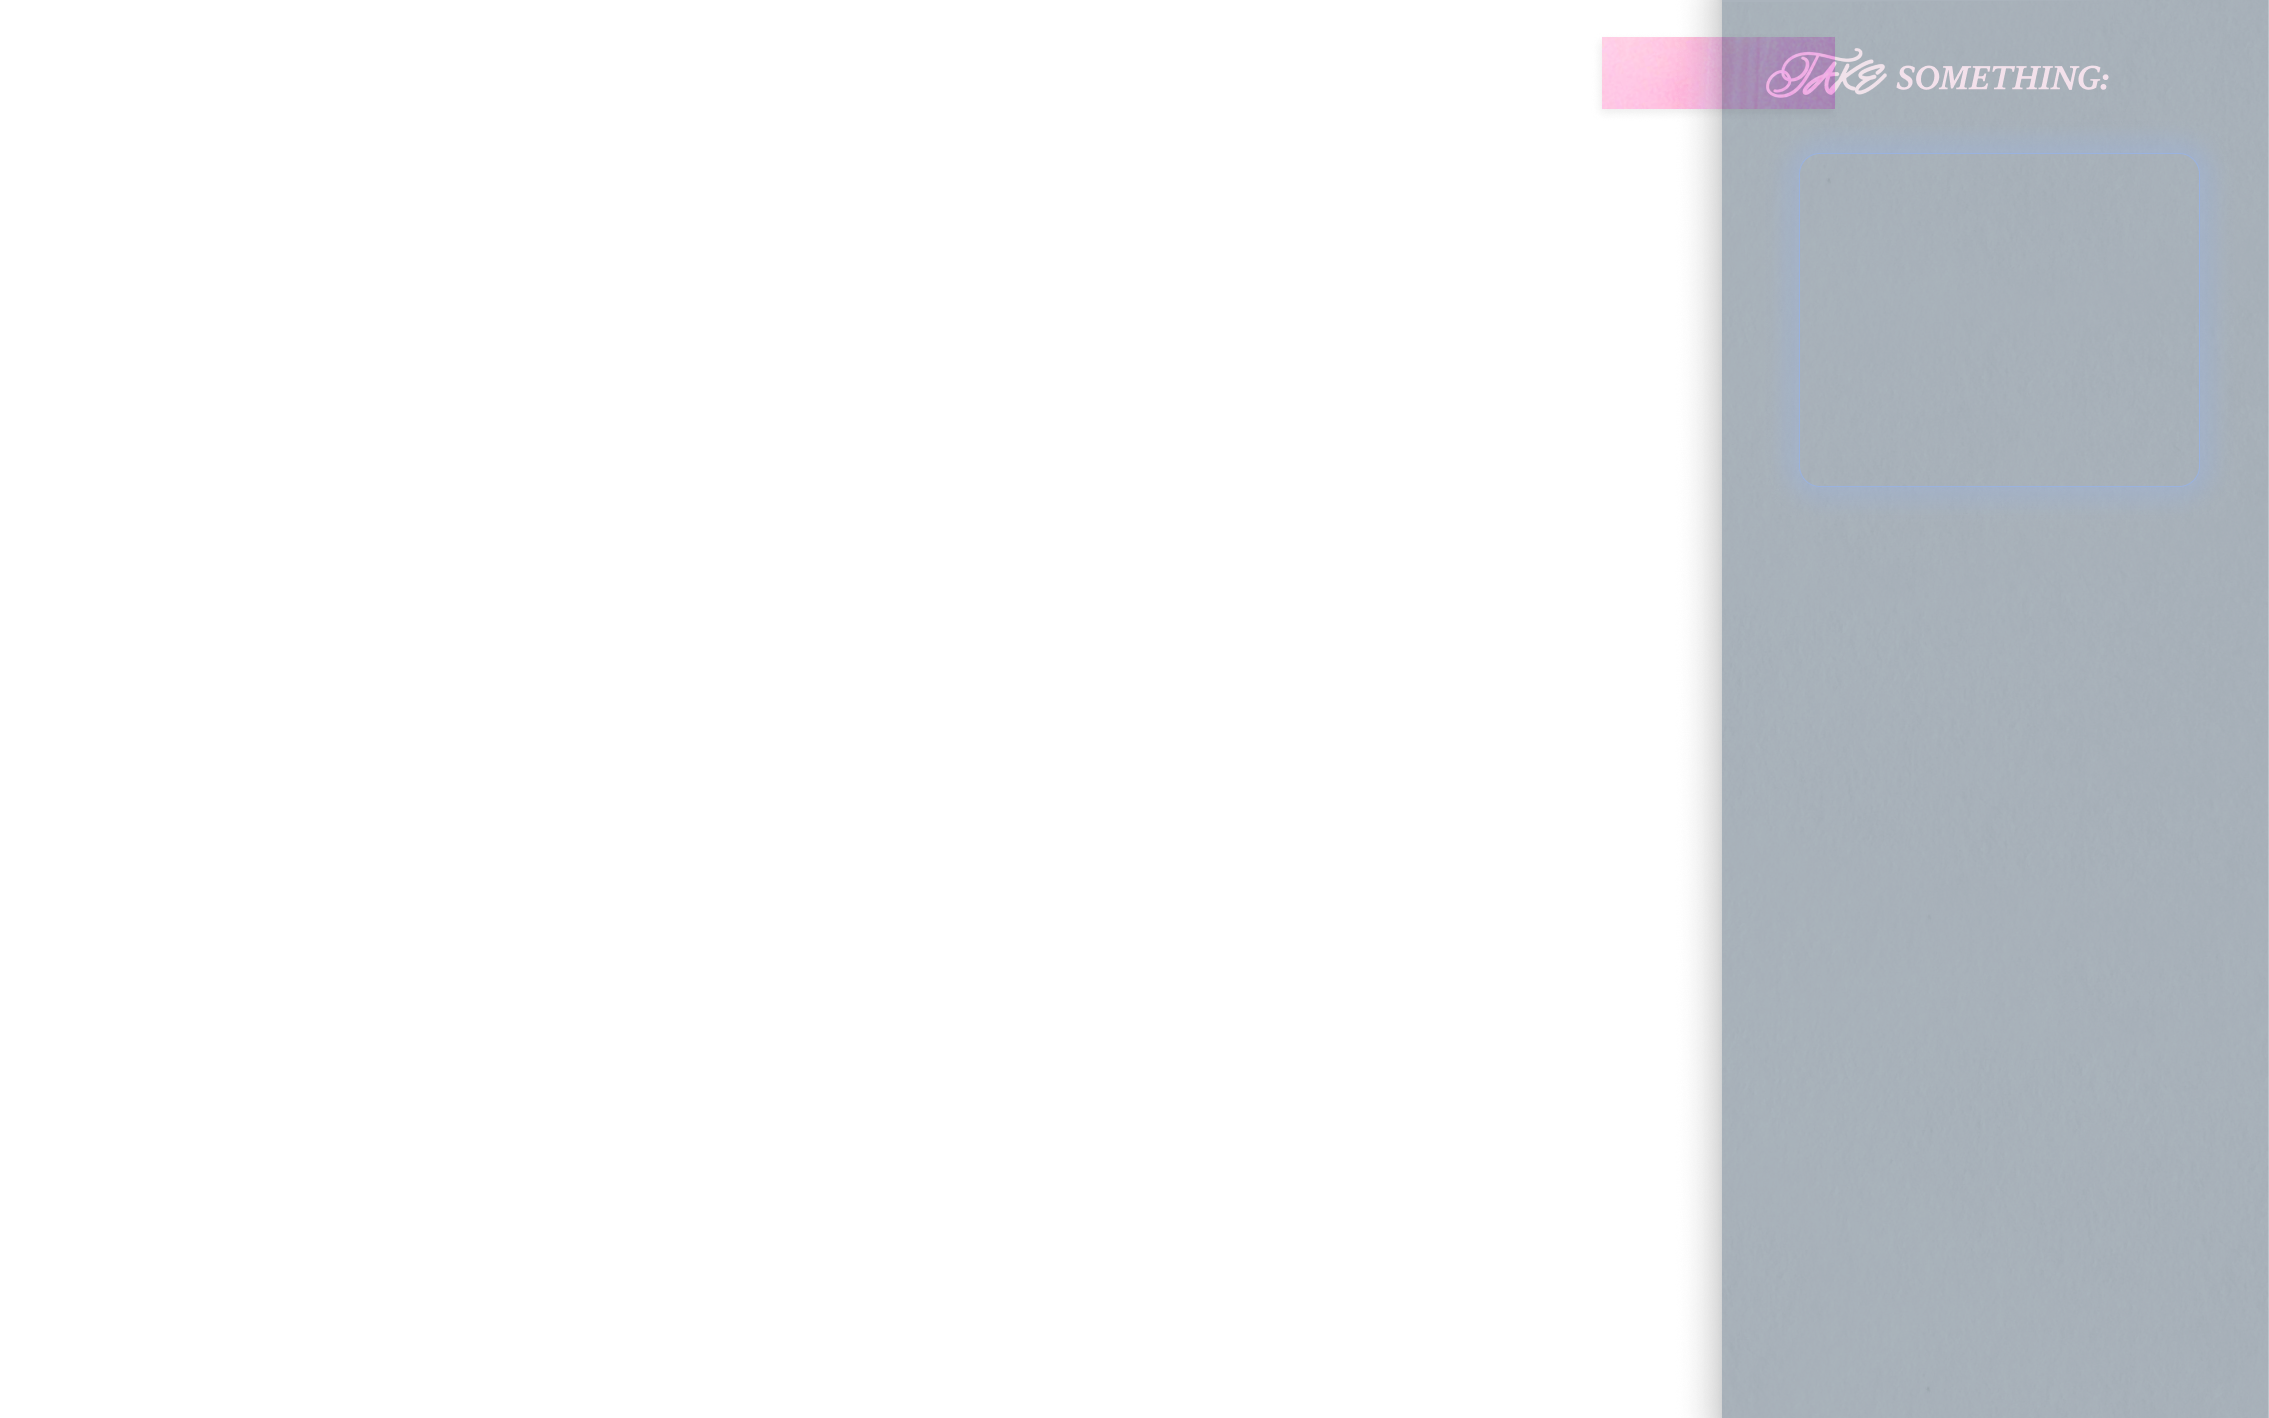
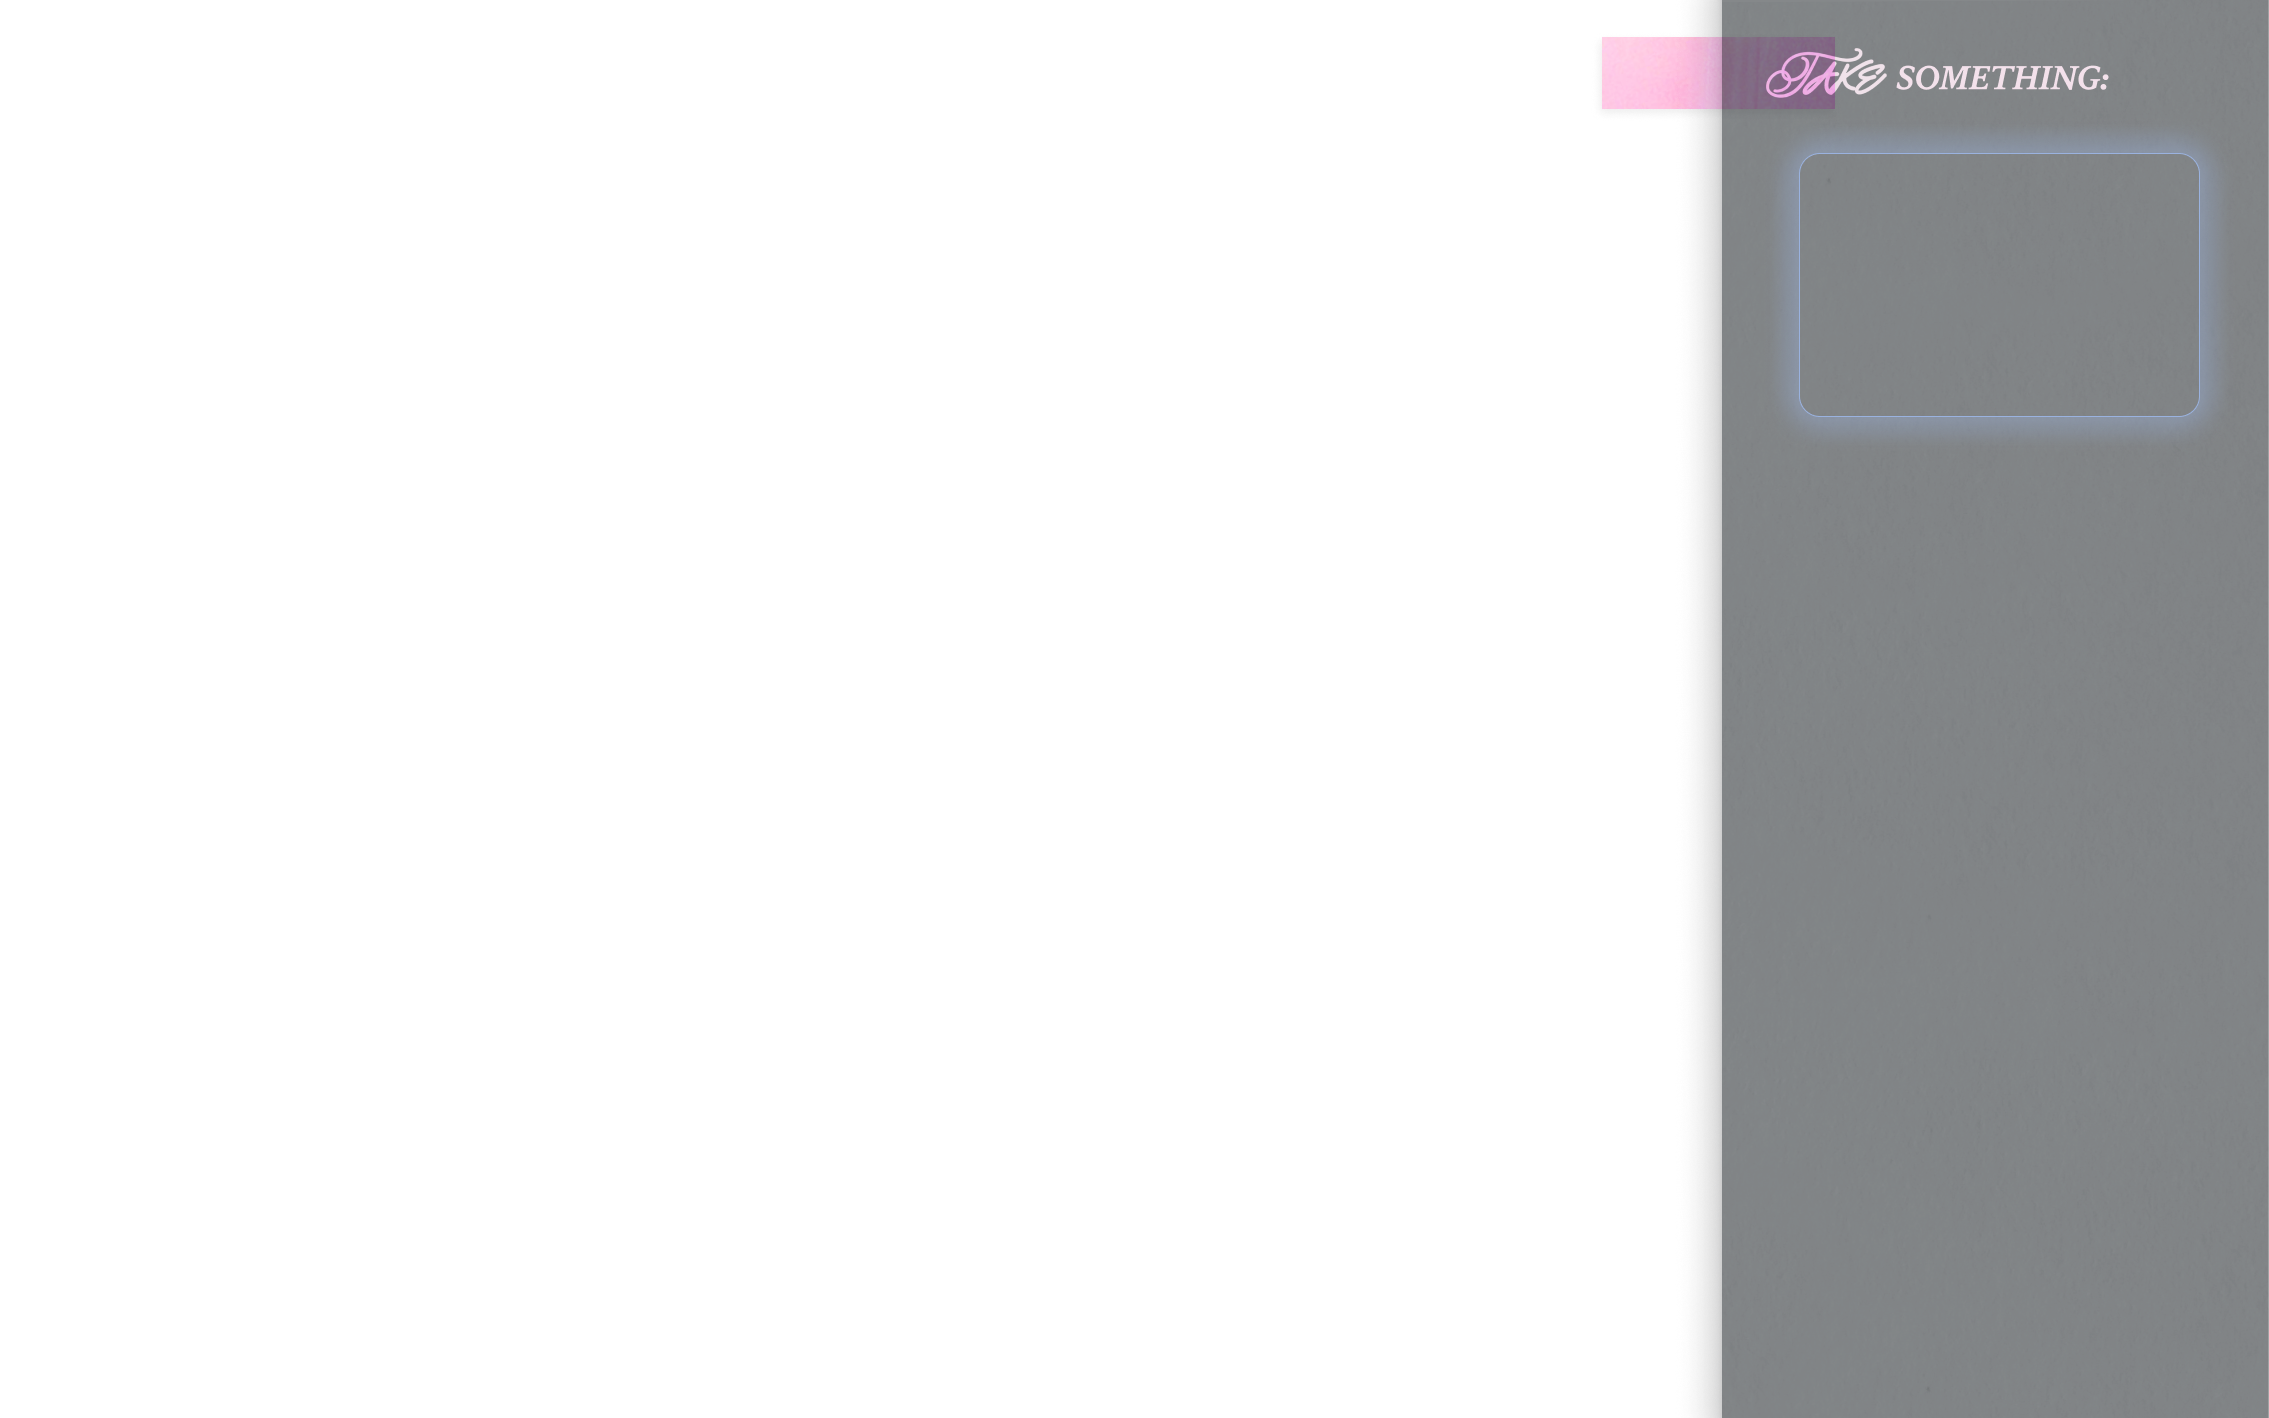
add glow

Changed region(s): [[0.7404, 0.0, 1.0, 1.0]]

diff --git a/styles.css b/styles.css
@@ -922,6 +922,7 @@ i {
   transition: font-variation-settings 0.5s ease;
   transform: scale(8);
   z-index: 10;
+  text-shadow: 0 0 10px rgb(0, 115, 255,0.9), 0 0 30px rgba(214, 233, 255, 0.7); /* ✨ BLUE GLOW */ 
 }
 
 @keyframes pulseMove {
@@ -962,70 +963,67 @@ i {
 
 #picked-letters-container {
   position: fixed;
-  top: 0px;
-  right: 0px;
-  width: 100px; /* or however wide you want it */
-  height: 100vh; /* scrollable height */
-  z-index: 7;
+  top: 0;
+  right: 0;
+  width: 22vw;
+  height: 100vh;
+  display: flex;
+  flex-direction: column;
   pointer-events: none;
+  z-index: 8;
+}
+
+#picked-letters-new {
+  width: 100%;
+  height: 250px; /* or however tall you want the big letter section */
+  min-height: 250px;
+  display: flex;
+  align-items: center;
+  justify-content: center;
+  pointer-events: auto;
+  padding-top: 65px;
+  padding-right: 10px;
 }
 
 #picked-letters {
-  position: absolute;
-  top: 80px;
-  right: 15px;
-  width: 22vw;
-  font-family: 'Flowers', sans-serif;
-  font-size: 5rem;
-  line-height: 0.7;
-  z-index: 8;
-  pointer-events: auto;
-  display: flex;
-  flex-direction: column;
-  gap: 10px;
-  text-align: center;
-  max-height: 100vh; /* scrollable space */
-  overflow-y: auto; /* <--- IMPORTANT: make it scrollable */
+  flex: 1;
+  overflow-y: auto;
   overflow-x: hidden;
+  scrollbar-width: none; /* Firefox */
+  -ms-overflow-style: none; /* IE 10+ */
+  pointer-events: auto;
 }
 
-.picked-letter {
-  font-family: 'Flowers', sans-serif;
-  font-size: 5rem;
-  line-height: 1;
-  color: inherit;
-  display: flex;
-  align-items: center;
-  justify-content: center;
-  transition: all 0.8s ease;
+#picked-letters::-webkit-scrollbar {
+  display: none; /* Chrome, Safari */
 }
 
-/* Freshly picked letter */
-.picked-letter-new {
-  font-size: 20rem;
-}
-
-/* New picked letter big area */
-#picked-letters-new {
-  width: 100%;
-  display: flex;
-  justify-content: center;
-  align-items: center;
-  min-height: 250px;
-}
-
-/* Grid of regular picked letters */
 #picked-letters-grid {
   display: grid;
   grid-template-columns: repeat(4, 1fr);
   gap: 0px;
   width: 100%;
   text-align: center;
+  font-family: 'Flowers', sans-serif;
+  font-size: 5rem;
+  padding: 10px;
 }
 
-#picked-letters::-webkit-scrollbar {
-  display: none; /* Chrome, Safari, Opera */
+/* Picked letters styles */
+.picked-letter {
+  font-family: 'Flowers', sans-serif;
+  font-size: 8rem;
+  display: flex;
+  align-items: center;
+  justify-content: center;
+  transition: all 0.8s ease;
+  color: inherit;
 }
+
+.picked-letter-new {
+  font-size: 18rem;
+}
+
 
 #picked-letters-bg {
   position: fixed;
@@ -1036,6 +1034,24 @@ i {
   z-index: 4;
   pointer-events: none;
   user-select: none;
+}
+
+/* picked letters scrollable area */ 
+
+#picked-letters-scroll {
+  flex: 1;
+  overflow-y: auto;
+  overflow-x: hidden;
+  pointer-events: auto;
+}
+
+/* Hide scrollbar (optional) */
+#picked-letters-scroll::-webkit-scrollbar {
+  display: none;
+}
+#picked-letters-scroll {
+  scrollbar-width: none; /* Firefox */
+  -ms-overflow-style: none; /* IE 10+ */
 }
 
 

diff --git a/index.html b/index.html
@@ -104,12 +104,12 @@
     <script src="./script.js"></script>
 
     <div id="picked-letters-container">
-      <img id="picked-letters-bg" src="assets/picked-letters-bg.png" alt="picked letters background" />
+      <div id="picked-letters-new"></div> <!-- big fresh letter here -->
+      <div id="picked-letters-scroll">
+        <div id="picked-letters-grid"></div> <!-- small letters here, scrollable -->
+      </div>
     </div>
-    <div id="picked-letters">
-      <div id="picked-letters-new"></div>
-      <div id="picked-letters-grid"></div>
-    </div>
+    
   </body>
 </html>
 

diff --git a/script.js b/script.js
@@ -102,7 +102,7 @@ function addHoverEffects() {
       if (pickedLettersNew.firstChild) {
         const previousBigLetter = pickedLettersNew.firstChild;
         previousBigLetter.classList.remove("picked-letter-new");
-        previousBigLetter.style.fontSize = "5rem";
+        previousBigLetter.style.fontSize = "8rem";
 
         // Insert the previous big letter at the top of the grid
         if (pickedLettersGrid.firstChild) {
